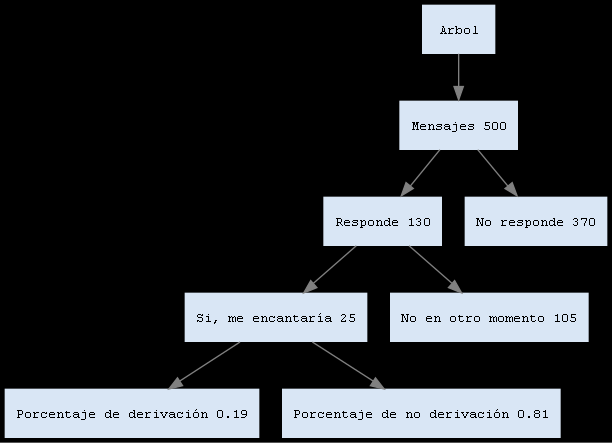
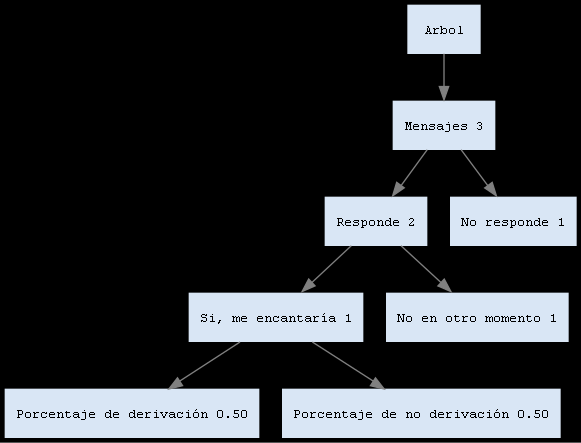
add report

diff --git a/informe/arbol.py b/informe/arbol.py
@@ -7,22 +7,25 @@ import pandas as pd
 import folium
 import geopandas as gpd
 import matplotlib.pyplot as plt
-from informe.constantes import *
+from informe.constantes import Constants
 
 
 def arbol():
     st.image("informe/imagenes/price.png", caption='Precio de 1000 aperturas y 1000 mensajes', use_column_width=True)
     st.image("informe/imagenes/mensaje.png", caption='Mensaje utilizado para campaña', use_column_width=True)
 
+
+    tupla = Constants().main()
+    print(tupla[0])
     # Crear los nodos del árbol
     root = Node("Arbol")
-    mensajes_node = Node(f"Mensajes {cantidad_mensajes}", parent=root)
-    responde_node = Node(f"Responde {responde}", parent=mensajes_node)
-    si_node = Node(f"Si, me encantaría {si}", parent=responde_node)
-    si_porcentaje_node = Node(f"Porcentaje de derivación {porcentaje_si}", parent=si_node)
-    no_porcentaje_node = Node(f"Porcentaje de no derivación {porcentaje_no}", parent=si_node)
-    no_en_otro_momento_node = Node(f"No en otro momento {no_en_otro_momento}", parent=responde_node)
-    no_responde_node = Node(f"No responde {no}", parent=mensajes_node)
+    mensajes_node = Node(f"Mensajes {tupla[0]}", parent=root)
+    responde_node = Node(f"Responde {tupla[1]}", parent=mensajes_node)
+    si_node = Node(f"Si, me encantaría {tupla[2]}", parent=responde_node)
+    si_porcentaje_node = Node(f"Porcentaje de derivación {tupla[7]}", parent=si_node)
+    no_porcentaje_node = Node(f"Porcentaje de no derivación {tupla[8]}", parent=si_node)
+    no_en_otro_momento_node = Node(f"No en otro momento {tupla[5]}", parent=responde_node)
+    no_responde_node = Node(f"No responde {tupla[6]}", parent=mensajes_node)
 
 
     # Crear un objeto Digraph
@@ -38,7 +41,7 @@ def arbol():
 
     # Guarda en un archivo temporal
     graph_filename = "temp_graph"
-    dot.render(graph_filename, cleanup=True)
+    dot.render("informe/imagenes/" + graph_filename, cleanup=True)
 
     # Crear la interfaz de streamlit
     st.title("Arbol de Mensajes")

diff --git a/informe/constantes.py b/informe/constantes.py
@@ -1,11 +1,34 @@
+from database_module import get_number_of_records, get_number_of_records_by_filter
 
 
-cantidad_mensajes = 500
-responde = 130
-si = 25
-por_si = si/responde
-por_no = 1-por_si
-no_en_otro_momento = responde-si
-no = cantidad_mensajes-responde
-porcentaje_si = "{:.2f}".format(por_si)
-porcentaje_no = "{:.2f}".format(por_no)
+class Constants:
+    def __init__(self):
+        self.cantidad_mensajes = None
+        self.responde = None
+        self.si = None
+        self.por_si = None
+        self.por_no = None
+        self.no_en_otro_momento = None
+        self.no = None
+        self.porcentaje_si = None
+        self.porcentaje_no = None
+
+
+    def main(self):
+        total = get_number_of_records()
+        self.cantidad_mensajes = total
+        responde_no = get_number_of_records_by_filter('en otro momento', 'initial_message')
+        responde_si = get_number_of_records_by_filter('si, me encantaria', 'initial_message')
+        responde = responde_si + responde_no
+        self.responde = responde
+        self.si = responde_si
+        self.por_si = self.si/self.responde
+        self.por_no = 1-self.por_si
+        self.no_en_otro_momento = self.responde-self.si
+        self.no = self.cantidad_mensajes-self.responde
+        self.porcentaje_si = "{:.2f}".format(self.por_si)
+        self.porcentaje_no = "{:.2f}".format(self.por_no)
+        return self.cantidad_mensajes, self.responde, self.si, self.por_si, self.por_no, self.no_en_otro_momento, self.no, self.porcentaje_si, self.porcentaje_no
+
+
+

diff --git a/informe/grafico.py b/informe/grafico.py
@@ -10,7 +10,7 @@ import geopandas as gpd
 import matplotlib.pyplot as plt
 import matplotlib
 matplotlib.use('Agg')
-from informe.constantes import *
+from informe.constantes import Constants
 import numpy as np
 
 def grafico():
@@ -19,11 +19,13 @@ def grafico():
 
     x = np.array([1])
     width = 0.2
+    tupla = Constants().main()
 
+    
     fig, ax = plt.subplots()
-    mensaje_bar = ax.bar(x - width, cantidad_mensajes, width, label='Total de Mensajes')
-    responde_bar = ax.bar(x, responde, width, label='Responde')
-    si_bar = ax.bar(x + width, si, width, label='Sí, me encantaría')
+    mensaje_bar = ax.bar(x - width, tupla[0], width, label='Total de Mensajes')
+    responde_bar = ax.bar(x, tupla[1], width, label='Responde')
+    si_bar = ax.bar(x + width, tupla[2], width, label='Sí, me encantaría')
     
     ax.set_ylabel('Cantidad de Mensajes')
     ax.set_title('Grafica de Barras')
@@ -40,7 +42,7 @@ def grafico():
 
 
     labels = ['Responde', 'No responde']
-    values = [responde, cantidad_mensajes-responde]
+    values = [tupla[1], tupla[0]-tupla[1]]
 
 
     #hacer grafico de torta y mostrar los values, cantidades y porcentajes

diff --git a/informe/mapa.py b/informe/mapa.py
@@ -38,9 +38,10 @@ def mapa():
 
     phone_numbers = []
     # Lista de números de teléfono para verificar
-    with open("informe/lineas.txt", "r") as f:
-        for line in f:
-            phone_numbers.append(line.strip())
+    df = pd.read_sql_query("SELECT * FROM interactions", r"sqlite:///C:\Users\Usuario\Desktop\chatbot-twilio\chatbot_database.db")
+    for i in range(len(df['phone_number'])):
+        phone_numbers.append(df['phone_number'][i])
+    
 
     # Crear un DataFrame para los números de teléfono y las provincias
     data = {'Phone_Number': phone_numbers}
